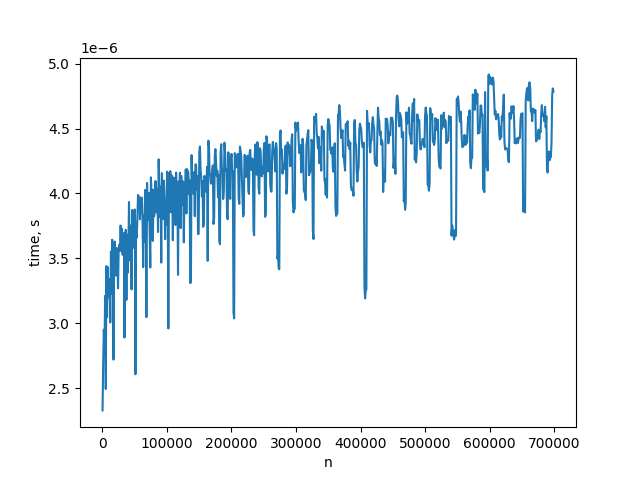
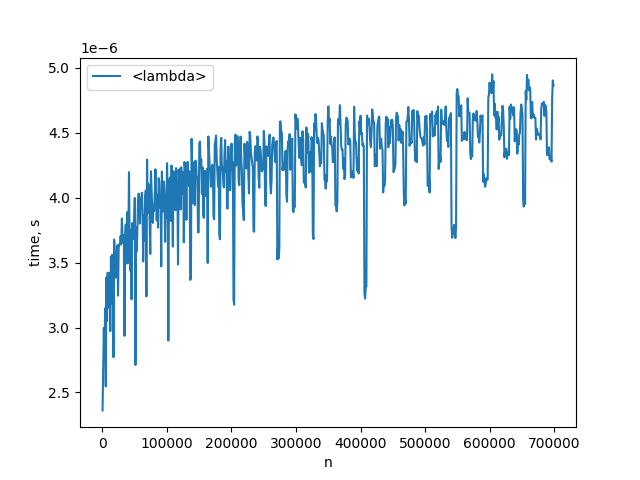
task 58 add and fix time_complexity_plot many functions in arguments

diff --git a/time_compexity_plot/plot.py b/time_compexity_plot/plot.py
@@ -1,19 +1,36 @@
 from timeit import timeit
+from typing import Union
 
 import matplotlib.pyplot as plt
 import numpy as np
 from tqdm import tqdm
 
 
-def plot_time_complexity(func: callable, inputs_func: callable, n_start: int = 10 ** 3, n_stop: int = 10 ** 6,
-                         n_step: int = 10 ** 3, n_times: int = 1, min_of_n = 2):
-    ns = np.arange(n_start, n_stop, n_step)
-    inputs_gen = (inputs_func(n) for n in np.arange(n_start, n_stop, n_step))
-    times = lambda inputs: min([timeit(lambda: func(inputs),
-                                  number=n_times) for _ in range(min_of_n)])
-    plt.plot(ns, list(map(times, tqdm(inputs_gen, total=(n_stop-n_start)//n_step))))
+def get_measure_time_func(func: callable, min_of_n, n_times) -> callable:
+    return lambda inputs: min([timeit(lambda: func(inputs),
+                                      number=n_times) for _ in range(min_of_n)])
+
+
+def plot_time_complexity(funcs: Union[list[callable], callable], inputs_func: callable, n_start: int = 10 ** 3,
+                         n_stop: int = 10 ** 6,
+                         n_step: int = 10 ** 3, n_times: int = 1, min_of_n=2):
+    ns = list(np.arange(n_start, n_stop, n_step))
+    if isinstance(funcs, list):
+        pass
+    elif isinstance(funcs, callable):
+        func = funcs
+        funcs = [0]
+        funcs[0] = func
+    for func in funcs:
+        inputs_gen = (inputs_func(n) for n in np.arange(n_start, n_stop, n_step))
+        times = get_measure_time_func(func, min_of_n, n_times)
+        plt.plot(ns, list(map(times,
+                              tqdm(inputs_gen,
+                                   total=(n_stop - n_start) // n_step))),
+                 label=func.__name__)
     plt.xlabel("n")
     plt.ylabel("time, s")
+    plt.legend()
     plt.savefig("complexity.png")
     plt.show()
 

diff --git a/easy/58. Length of Last Word/task_58.py b/easy/58. Length of Last Word/task_58.py
@@ -1,0 +1,32 @@
+from time_compexity_plot.plot import plot_time_complexity
+
+
+def length_of_last_world(string: str) -> int:
+    return len(string.split()[-1])
+
+
+def length_of_last_world_with_pop(string: str) -> int:
+    return len(string.split().pop())
+
+
+def length_of_last_world_backprop(string: str) -> int:
+    ans = 0
+    end = -1
+    while string[end] == " ":
+        end -= 1
+    try:
+        while string[end] != " ":
+            ans += 1
+            end -= 1
+    finally:
+        return ans
+
+
+if __name__ == '__main__':
+    plot_time_complexity([
+        length_of_last_world,
+        length_of_last_world_with_pop,
+        length_of_last_world_backprop,
+    ],
+        lambda n: "  word  word " * (n // 13),
+        n_start=20, n_stop=10 ** 7, n_step=10 ** 5, min_of_n=10)

diff --git a/easy/35. Search Insert Position/task_35.py b/easy/35. Search Insert Position/task_35.py
@@ -1,7 +1,9 @@
 from time_compexity_plot.plot import plot_time_complexity
 
+
 def bin_search(nums, target, left=0, right=None):
-    if right is None: right = len(nums) - 1
+    if right is None:
+        right = len(nums) - 1
     if left == right - 1:
         if target <= nums[left]:
             return left
@@ -26,5 +28,5 @@ def search_insert(nums: list[int], target: int):
 
 
 if __name__ == '__main__':
-    plot_time_complexity(lambda inputs: search_insert(inputs, 99), lambda n: list(range(n)),
-                         n_start=100, n_stop=int(0.7*10**6), n_step=10**3, min_of_n=100)
+    plot_time_complexity(lambda inputs: search_insert(inputs, 99), lambda n: list(range(n)), n_start=100,
+                         n_stop=int(0.7 * 10 ** 6), min_of_n=100)

diff --git a/easy/58. Length of Last Word/test_task_58.py b/easy/58. Length of Last Word/test_task_58.py
@@ -1,0 +1,17 @@
+import pytest
+
+from task_58 import *
+
+
+@pytest.mark.parametrize("string, ans", [
+    ("Hello World", 5),
+    ("   fly me   to   the moon  ", 4),
+    ("   fly me   to   the moon  ", 4),
+    ("luffy is still joyboy", 6),
+    ("s", 1),
+    ("s         ", 1),
+])
+def test_examples(string, ans):
+    assert length_of_last_world(string) == ans
+    assert length_of_last_world_with_pop(string) == ans
+    assert length_of_last_world_backprop(string) == ans
